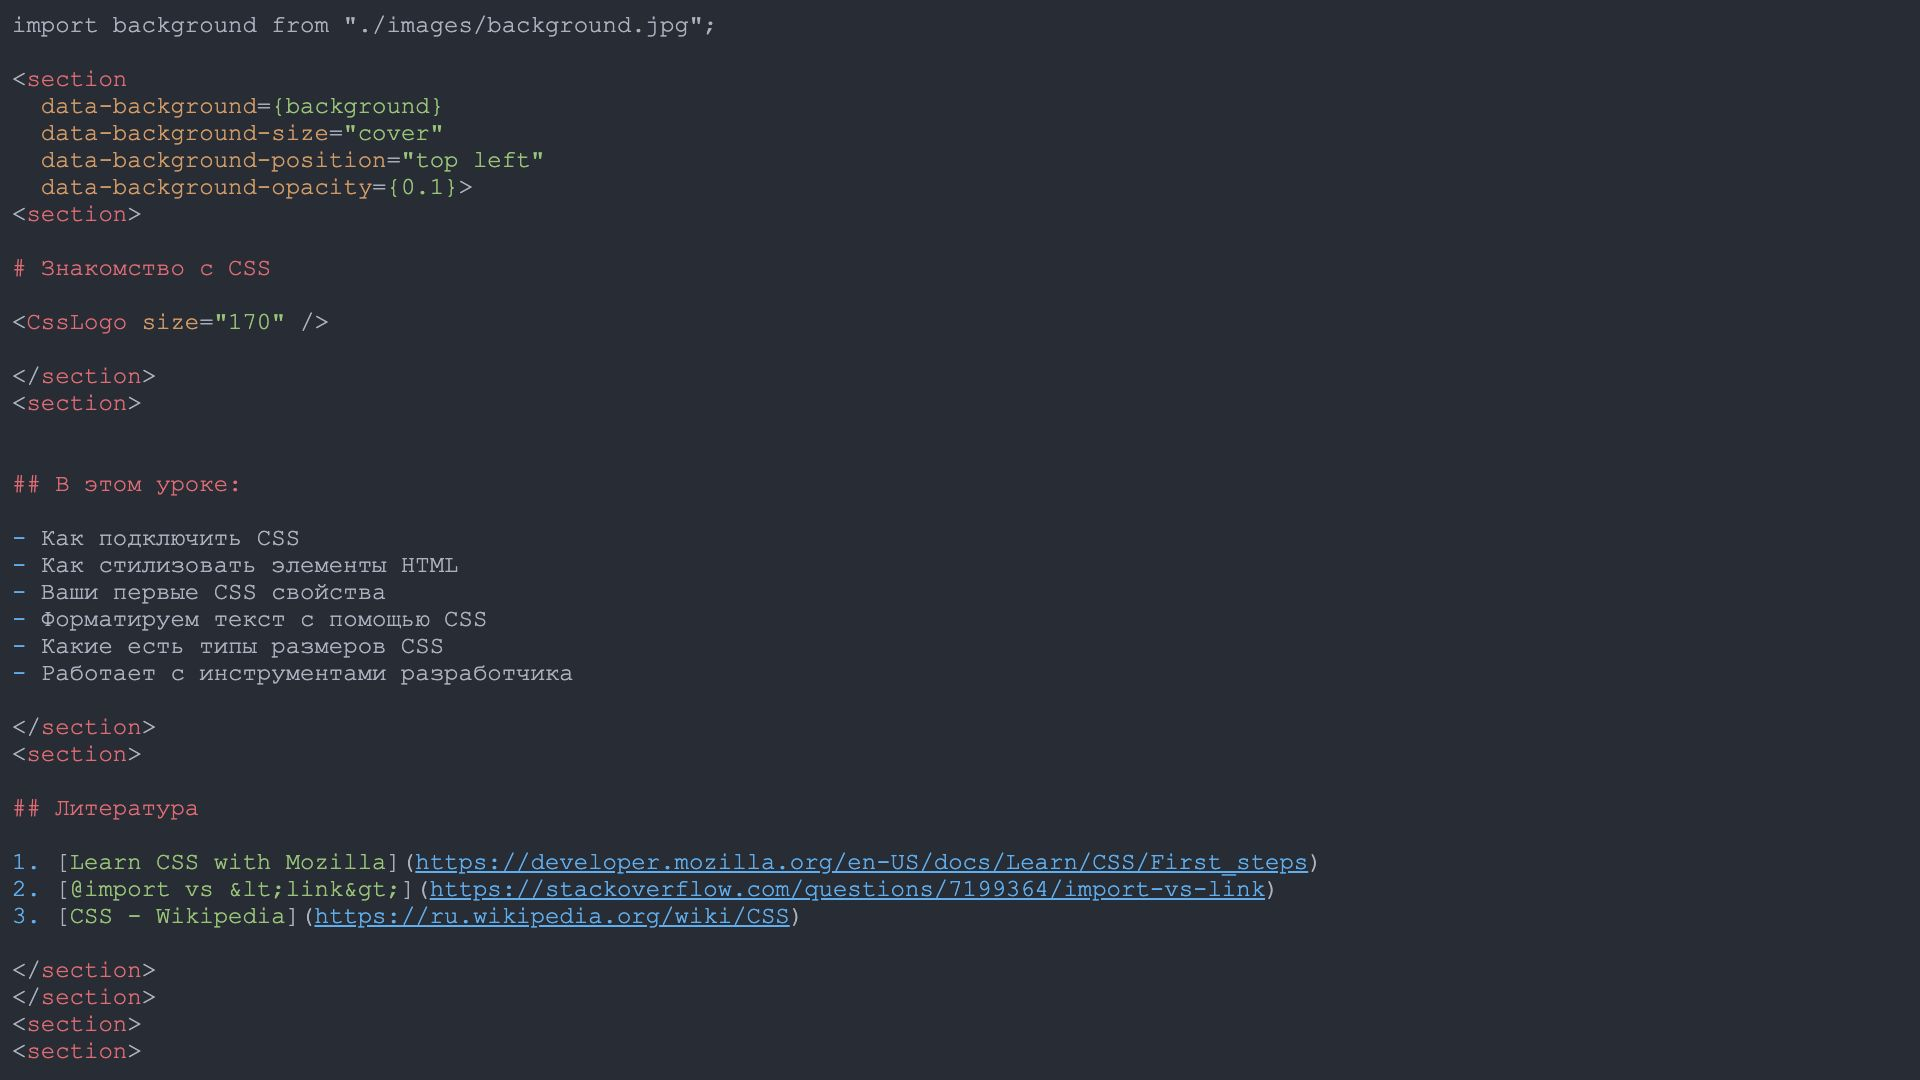
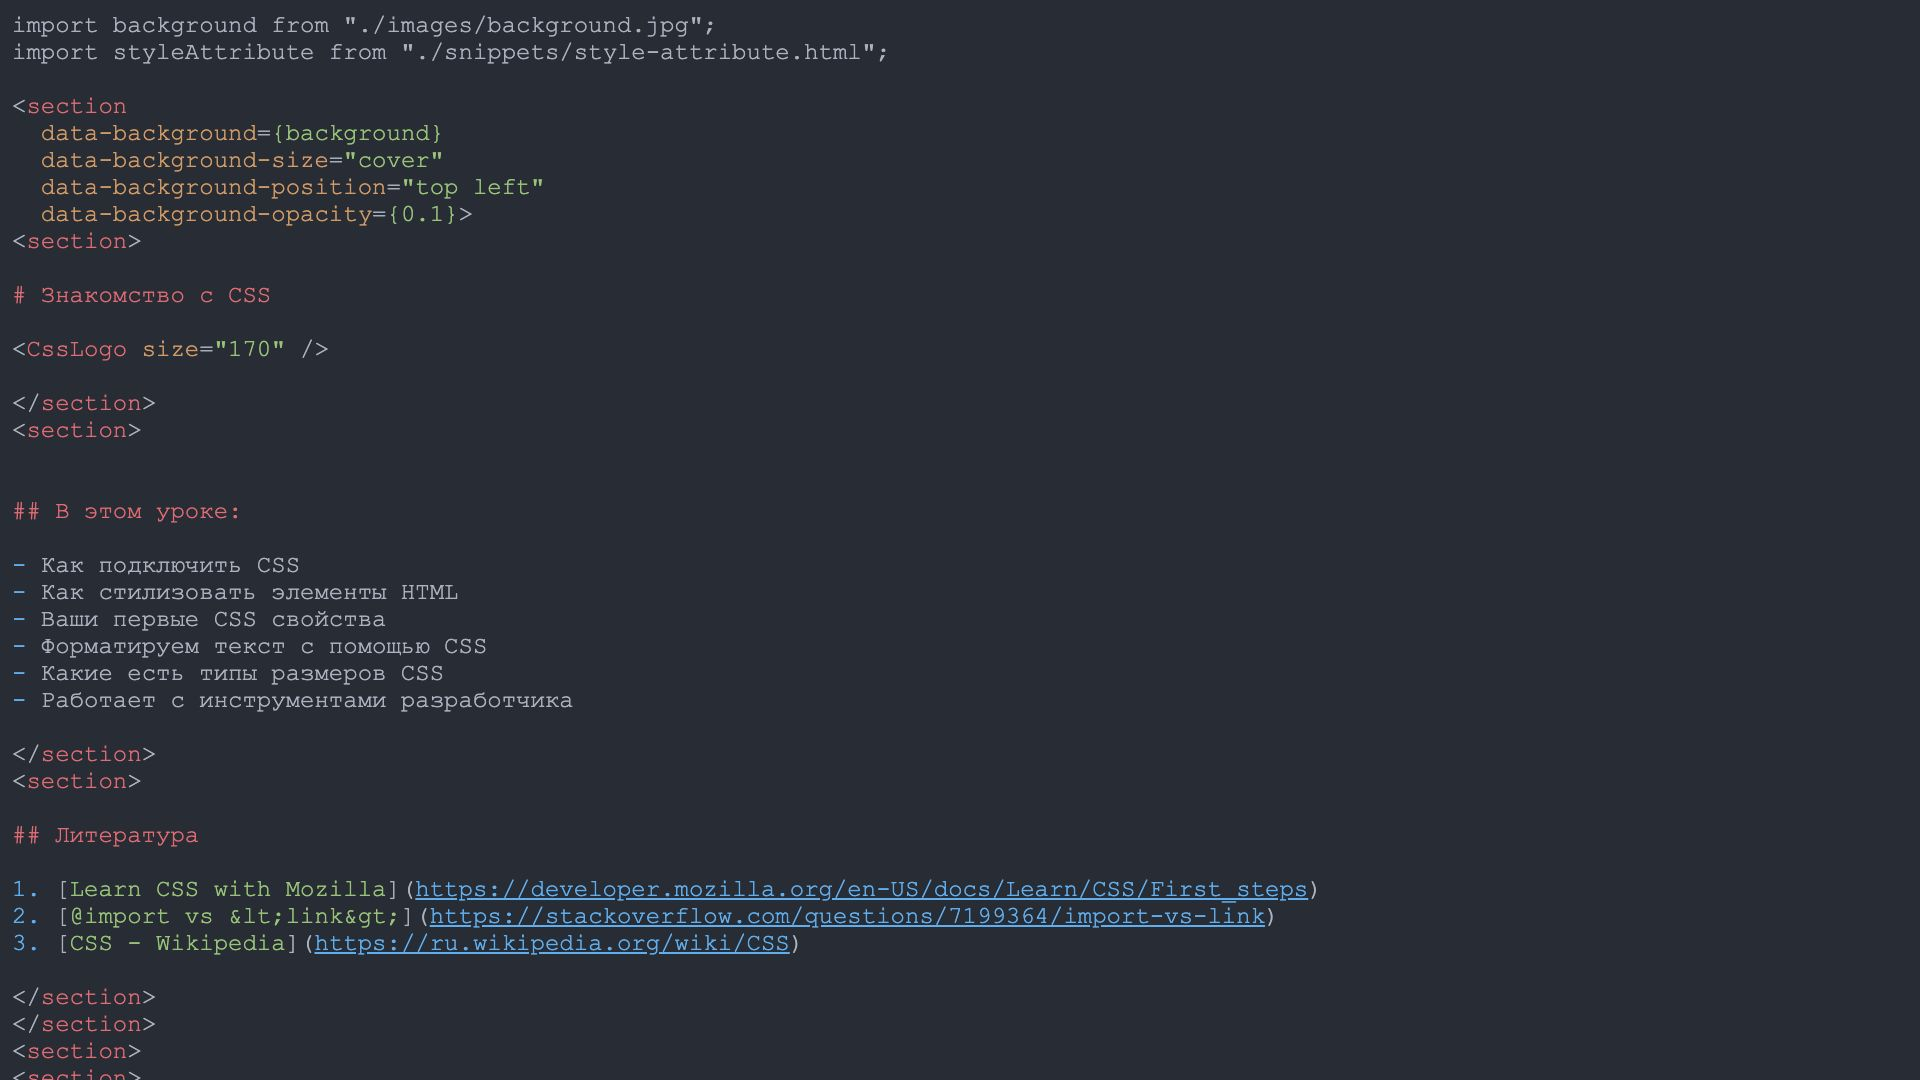
add import css

diff --git a/src/components/common/Icons.jsx b/src/components/common/Icons.jsx
@@ -4,6 +4,7 @@ import { ReactComponent as JsLogoSvg } from "assets/icons/js.svg";
 import { ReactComponent as HtmlLogoSvg } from "assets/icons/html.svg";
 import { ReactComponent as VSCodeSvg } from "assets/icons/vscode.svg";
 import { ReactComponent as ChromeSvg } from "assets/icons/chrome.svg";
+import { ReactComponent as EmmetSvg } from "assets/icons/emmet.svg";
 import { ImgIcon } from "components/lessons/reveal";
 
 const StyledHtmlLogoSvg = styled(HtmlLogoSvg)`
@@ -60,6 +61,7 @@ export const CssLogo = props => (
 
 export const VSCodeLogo = props => <ImgIcon {...props} as={VSCodeSvg} />;
 export const ChromeLogo = props => <ImgIcon {...props} as={ChromeSvg} />;
+export const EmmetLogo = props => <ImgIcon {...props} as={EmmetSvg} />;
 
 export default {
   StyledHtmlLogoSvg,
@@ -70,4 +72,5 @@ export default {
   VSCodeLogo,
   ChromeLogo,
   CssLogo,
+  EmmetLogo,
 };

diff --git a/src/components/lessons/reveal/RevealPre.js b/src/components/lessons/reveal/RevealPre.js
@@ -3,7 +3,12 @@ import { cloneElement } from "react";
 const DATA_ID = "data-id";
 
 export default function Pre(props) {
-  if (props && props.children && props.children.props[DATA_ID]) {
+  if (
+    props &&
+    props.children &&
+    props.children.props &&
+    props.children.props[DATA_ID]
+  ) {
     const dataId = props.children.props[DATA_ID];
     const newProps = {};
     newProps["data-id"] = null;

diff --git a/gatsby-config.js b/gatsby-config.js
@@ -87,7 +87,15 @@ module.exports = {
         path: `${__dirname}/src/pages`,
       },
     },
-    "gatsby-plugin-svgr",
+    {
+      resolve: "gatsby-plugin-svgr",
+      options: {
+        svgo: true,
+        svgoConfig: {
+          removeViewBox: false, // remove viewBox when possible (default)
+        },
+      },
+    },
     "gatsby-plugin-sass",
     "gatsby-plugin-sitemap",
     // {

diff --git a/src/pages/lessons/html/03-html/snippets/style-attribute.html b/src/pages/lessons/html/03-html/snippets/style-attribute.html
@@ -1,0 +1,3 @@
+<p style="color: yellow; background-color: blue;">
+  yellow text on blue background
+</p>
